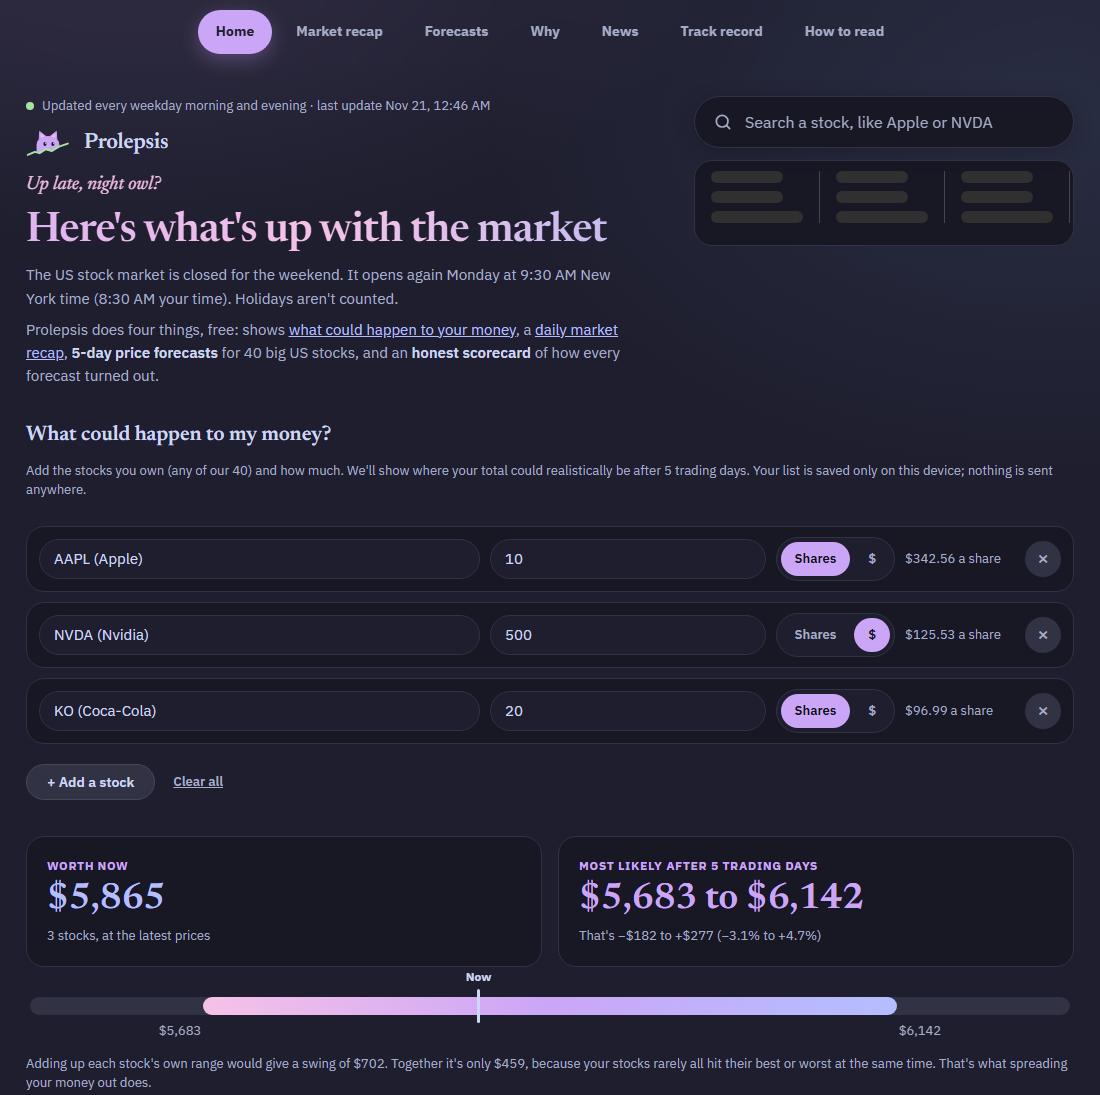
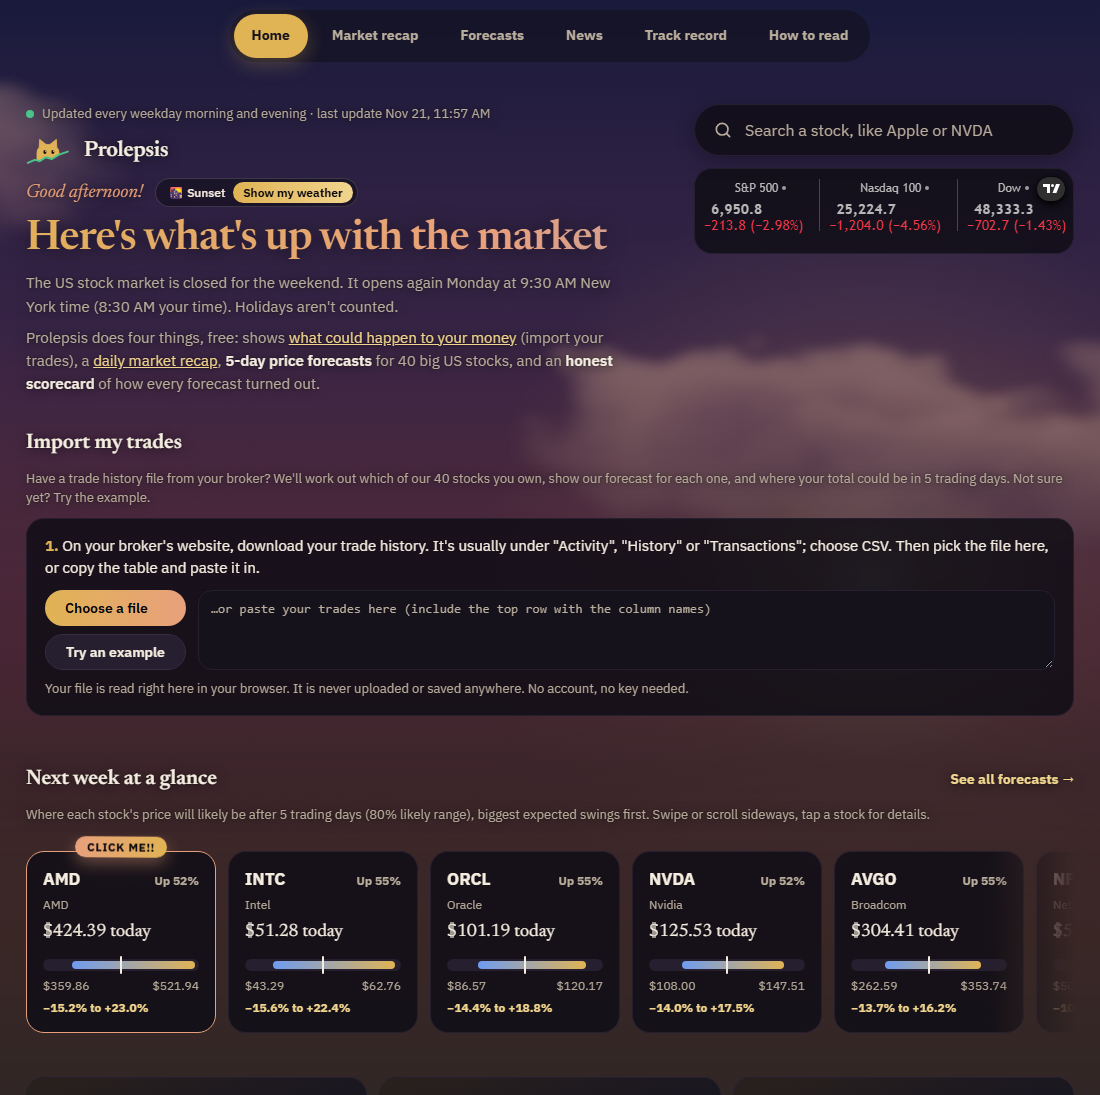
Release notes for v1.3.0, new README screenshots (Luxe colours, living sky, Import my trades)

diff --git a/.github/release-notes.md b/.github/release-notes.md
@@ -1,9 +1,10 @@
 ## What's new
-- **"What could happen to my money?"** on the Home page: type in the stocks you own (any of our 40, search by name) and how much, and see where your total could realistically be after 5 trading days. Tested on 70,000 made-up portfolios over 2023-2026: the real result landed inside the range 80% of the time. Your list stays on your own computer.
-- **Market recap** now has its own page (the short version, market prices and chart, futures, how our 40 stocks did).
-- **Sharper price ranges**: the safety margin now follows each stock's recent ups and downs, so calm and jumpy stocks are both right about 80% of the time.
-- **Track record** explains early results honestly ("only 1 week checked so far") while few weeks have been graded.
-- New fonts (Newsreader for headlines, IBM Plex Sans for text), same cosy dark colours.
+- **Import my trades** at the top of Home: pick or paste the trade history file from your broker (Schwab, Fidelity, Robinhood, Vanguard, E*TRADE, Interactive Brokers, Questrade and most others). Prolepsis works out which of our 40 stocks you own, what you paid on average, our 5-day forecast for each one, and where your total could realistically be in 5 trading days. Your file is read on your own computer and never uploaded.
+- **Try an example**: one click shows how it works with made-up trades and the real forecasts.
+- **A living sky**: the background follows your time of day (sunrise, daytime, sunset, night with stars and a moon). Click **Show my weather** to see your real weather too (rain, clouds, storms, snow). That one is optional and uses the free Open-Meteo service with your location rounded to about 10 km.
+- **New "Luxe" colours**: gold and rose gold on deep plum-black, with emerald for gains and ruby for losses.
+- The type-in "What could happen to my money?" calculator is gone: importing your trades now gives you the same total range automatically.
+- The "Why" page was removed (each stock's news reasons are still in its pop-up), and "How to read" now lists the ideas we tested and left out, including a head-to-head with Amazon's Chronos AI.
 
 ## Download
 Under **Assets** below, click **Prolepsis-….zip** (not "Source code"), then unzip it.

diff --git a/README.md b/README.md
@@ -7,8 +7,8 @@
 <a href="https://faizsyed13.github.io/Prolepsis---Future-of-stock-forecasting/">Open the live page</a> · <a href="https://github.com/FaizSyed13/Prolepsis---Future-of-stock-forecasting/releases/latest">Download</a></p>
 
 <p align="center">
-  <img src="docs/screenshot-home.png" alt="Prolepsis Home page: greeting, stock search and the What could happen to my money? section" width="49%">
-  <img src="docs/screenshot-forecast.png" alt="Chart of where each of the 40 stocks could land after 5 trading days" width="49%">
+  <img src="docs/screenshot-home.png" alt="Prolepsis Home page at sunset: greeting, stock search, Import my trades and next week at a glance" width="49%">
+  <img src="docs/screenshot-forecast.png" alt="Chart of where each of the 40 stocks could land after 5 trading days, under a night sky" width="49%">
 </p>
 
 ## Stock Predictor (research pipeline)
